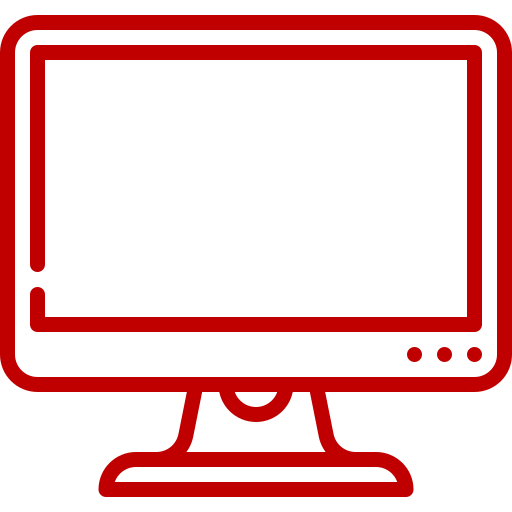
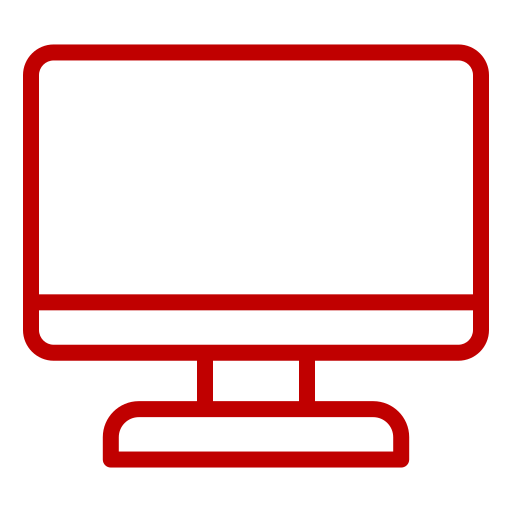
Add files via upload

Changed region(s): [[0.0, 0.0312, 1.0, 0.9688]]

diff --git a/index.html b/index.html
@@ -24,15 +24,14 @@
     </div>
 
     <div class="py-6 mt-3 text-center text-white relative max-w-7xl mx-auto px-4">
-      <!-- Logo -->
+
       <img src="img/logo MVCS.png" alt="Logo"
         class="hidden sm:block h-10 sm:h-12 absolute left-2 sm:left-4 top-[40%] transform -translate-y-1/2" />
 
-      <!-- Título -->
       <h1 class="text-xl sm:text-3xl md:text-4xl lg:text-5xl font-bold tracking-wide text-black">
         OFICINA DE MONITOREO
       </h1>
-      <!-- Subtítulo -->
+
       <div class="mt-2 inline-block bg-red-600 px-2 sm:px-4 py-1 transform -skew-x-12">
         <span class="inline-block skew-x-12 text-white font-semibold text-base sm:text-lg md:text-2xl lg:text-3xl">
           REPOSITORIO DE TABLEROS DE MONITOREO Y SEGUIMIENTO
@@ -50,7 +49,7 @@
         <div class="flip-card">
           <div class="flip-inner shadow-lg">
             <div class="flip-front shadow-lg text-center">
-              <img src="img/en-construccion.png" alt="" class="w-20 h-20 mb-3" />
+              <img src="img/en-construccion.png" alt="" class="w-20 h-21 mb-2" />
               <h3 class="font-bold text-2xl">Obras paralizadas</h3>
             </div>
             <div class="flip-back shadow-lg text-center p-4">
@@ -67,7 +66,7 @@
         <div class="flip-card">
           <div class="flip-inner shadow-lg">
             <div class="flip-front shadow-lg text-center">
-              <img src="img/dar-dinero.png" alt="" class="w-20 h-20 mb-3" />
+              <img src="img/dar-dinero.png" alt="" class="w-20 h-20 mb-2" />
               <h3 class="font-bold text-2xl">Transferencias</h3>
             </div>
             <div class="flip-back shadow-lg text-center p-4">
@@ -85,7 +84,7 @@
         <div class="flip-card">
           <div class="flip-inner shadow-lg">
             <div class="flip-front shadow-lg text-center">
-              <img src="img/monitor.png" alt="" class="w-20 h-20 mb-3" />
+              <img src="img/monitor.png" alt="" class="w-20 h-20 mb-2" />
               <h3 class="font-bold text-2xl">PRESET</h3>
             </div>
             <div class="flip-back shadow-lg text-center p-4">
@@ -97,16 +96,17 @@
         </div>
       </a>
 
-      <a href="https://app.powerbi.com/view?r=eyJrIjoiN2UzZDZiMTYtNjMyYS00ZmFhLTk0NTEtNDI5MTBjNTZhNzllIiwidCI6IjhhZmMxYzZhLThjOWYtNDA5My1iMDU1LWU0MTdiMjA5M2IwYyIsImMiOjR9"
-        target="_blank" class="block">
+      <a class="block disabled-link"
+        href="https://app.powerbi.com/view?r=eyJrIjoiZjU0MmUyNWYtNjgxYi00NThjLTgzMjEtOTMzNTcyM2Y1OGI3IiwidCI6IjhhZmMxYzZhLThjOWYtNDA5My1iMDU1LWU0MTdiMjA5M2IwYyIsImMiOjR9"
+        target="_blank">
         <div class="flip-card">
           <div class="flip-inner shadow-lg">
             <div class="flip-front shadow-lg text-center">
-              <img src="img/camion-cisterna (4).png" alt="" class="w-20 h-20 mb-3" />
-              <h3 class="font-bold text-2xl">EPS</h3>
+              <img src="img/eps.png" alt="" class="w-20 h-20 mb-2" />
+              <h3 class="font-bold text-2xl">Distribución Gratuita de agua</h3>
             </div>
             <div class="flip-back shadow-lg text-center p-4">
-              <h4 class="font-bold text-2xl mb-2">EPS</h4>
+              <h4 class="font-bold text-2xl mb-2">Distribución Gratuita de agua</h4>
               <p class="text-base">Avance físico y financiero de la distribución de agua en camión cisterna dirigido a
                 la población ubicada en zona urbana de pobreza y pobreza extrema.</p>
             </div>
@@ -114,12 +114,13 @@
         </div>
       </a>
 
-      <a href="https://app.powerbi.com/view?r=eyJrIjoiOWFkZGExYmEtYzZlZS00MjVhLTgzMTUtNDIzZDQ4OWQyMTQxIiwidCI6IjhhZmMxYzZhLThjOWYtNDA5My1iMDU1LWU0MTdiMjA5M2IwYyIsImMiOjR9"
-        target="_blank" class="block">
+      <a class="block disabled-link"
+        href="https://app.powerbi.com/view?r=eyJrIjoiOWFkZGExYmEtYzZlZS00MjVhLTgzMTUtNDIzZDQ4OWQyMTQxIiwidCI6IjhhZmMxYzZhLThjOWYtNDA5My1iMDU1LWU0MTdiMjA5M2IwYyIsImMiOjR9"
+        target="_blank">
         <div class="flip-card">
           <div class="flip-inner shadow-lg">
             <div class="flip-front shadow-lg text-center">
-              <img src="img/obrero.png" alt="" class="w-20 h-20 mb-3" />
+              <img src="img/obrero.png" alt="" class="w-20 h-20 mb-2" />
               <h3 class="font-bold text-2xl">Inversiones Directas</h3>
             </div>
             <div class="flip-back shadow-lg text-center p-4">
@@ -136,7 +137,7 @@
         <div class="flip-card">
           <div class="flip-inner shadow-lg">
             <div class="flip-front shadow-lg text-center">
-              <img src="img/reunion-de-la-junta.png" alt="" class="w-20 h-20 mb-3" />
+              <img src="img/mat.png" alt="" class="w-20 h-20 mb-2" />
               <h3 class="font-bold text-2xl">Mesas de asistencia Técnica</h3>
             </div>
             <div class="flip-back shadow-lg text-center p-4">
@@ -147,12 +148,45 @@
         </div>
       </a>
 
+      <a href="https://app.powerbi.com/view?r=eyJrIjoiMTZhNmFjOWUtZDkwOC00MjE1LWI1MzctODlkNGUyZjQxNWM4IiwidCI6IjhhZmMxYzZhLThjOWYtNDA5My1iMDU1LWU0MTdiMjA5M2IwYyIsImMiOjR9"
+        target="_blank" class="block">
+        <div class="flip-card">
+          <div class="flip-inner shadow-lg">
+            <div class="flip-front shadow-lg text-center">
+              <img src="img/priorizadas.png" alt="" class="w-20 h-20 mb-2" />
+              <h3 class="font-bold text-2xl">Obras priorizadas</h3>
+            </div>
+            <div class="flip-back shadow-lg text-center p-4">
+              <h4 class="font-bold text-2xl mb-2">Obras priorizadas</h4>
+              <p class="text-base">Las obras priorizadas están programadas para ser culminadas hasta el 28 de julio de 2026, con el fin de asegurar su entrega oportuna en beneficio de la población.</p>
+            </div>
+          </div>
+        </div>
+      </a>
+
+      <a href="https://app.powerbi.com/view?r=eyJrIjoiYzMwYTNkMTgtYjU2YS00YzAxLWJhZTktNmM2OTRhZDQ2M2U1IiwidCI6IjhhZmMxYzZhLThjOWYtNDA5My1iMDU1LWU0MTdiMjA5M2IwYyIsImMiOjR9"
+        target="_blank" class="block">
+        <div class="flip-card">
+          <div class="flip-inner shadow-lg">
+            <div class="flip-front shadow-lg text-center">
+              <img src="img/pared-de-ladrillo.png" alt="" class="w-20 h-20 mb-2" />
+              <h3 class="font-bold text-2xl">VRAEM</h3>
+            </div>
+            <div class="flip-back shadow-lg text-center p-4">
+              <h4 class="font-bold text-2xl mb-2">VRAEM</h4>
+              <p class="text-base">Proyectos priorizados en el VRAEM para fortalecer el desarrollo local y mejorar los
+                servicios y calidad de vida.</p>
+            </div>
+          </div>
+        </div>
+      </a>
+
       <a href="https://app.powerbi.com/view?r=eyJrIjoiNTZlNmU2ZDItYmE3My00OTQzLWE3ZTMtYWZjYjExZWIyOTMzIiwidCI6IjhhZmMxYzZhLThjOWYtNDA5My1iMDU1LWU0MTdiMjA5M2IwYyIsImMiOjR9"
         target="_blank" class="block">
         <div class="flip-card">
           <div class="flip-inner shadow-lg">
             <div class="flip-front shadow-lg text-center">
-              <img src="img/conferencia.png" alt="" class="w-20 h-20 mb-3" />
+              <img src="img/mat pres.png" alt="" class="w-20 h-20 mb-2" />
               <h3 class="font-bold text-2xl">MAT presupuestal</h3>
             </div>
             <div class="flip-back shadow-lg text-center p-4">
@@ -164,18 +198,104 @@
         </div>
       </a>
 
-      <a href="https://app.powerbi.com/view?r=eyJrIjoiYzMwYTNkMTgtYjU2YS00YzAxLWJhZTktNmM2OTRhZDQ2M2U1IiwidCI6IjhhZmMxYzZhLThjOWYtNDA5My1iMDU1LWU0MTdiMjA5M2IwYyIsImMiOjR9"
+      <a href="https://app.powerbi.com/view?r=eyJrIjoiNzViZjNmZTQtNDM1Yy00ZWMwLThjNDEtNmFiNmEyMjgyZTk2IiwidCI6IjhhZmMxYzZhLThjOWYtNDA5My1iMDU1LWU0MTdiMjA5M2IwYyIsImMiOjR9"
         target="_blank" class="block">
         <div class="flip-card">
           <div class="flip-inner shadow-lg">
             <div class="flip-front shadow-lg text-center">
-              <img src="img/pared-de-ladrillo.png" alt="" class="w-20 h-20 mb-3" />
-              <h3 class="font-bold text-2xl">VRAEM</h3>
+              <img src="img/vivienda.png" alt="" class="w-20 h-20 mb-2" />
+              <h3 class="font-bold text-2xl">PNVR, COFOPRI y bonos</h3>
             </div>
             <div class="flip-back shadow-lg text-center p-4">
-              <h4 class="font-bold text-2xl mb-2">VRAEM</h4>
-              <p class="text-base">Proyectos priorizados en el VRAEM para fortalecer el desarrollo local y mejorar los
-                servicios y calidad de vida.</p>
+              <h4 class="font-bold text-2xl mb-2">PNVR, COFOPRI y bonos</h4>
+              <p class="text-base">Presenta información sobre las principales acciones del Estado en materia de
+                vivienda, que abarcan la construcción de hogares rurales, la formalización de la propiedad urbana.</p>
+            </div>
+          </div>
+        </div>
+      </a>
+
+      <a href="https://app.powerbi.com/view?r=eyJrIjoiYzg0NDRkNGQtNWVkYi00NjE4LWIwYzktZmI0NDY4YjBhMTg4IiwidCI6IjhhZmMxYzZhLThjOWYtNDA5My1iMDU1LWU0MTdiMjA5M2IwYyIsImMiOjR9"
+        target="_blank" class="block">
+        <div class="flip-card">
+          <div class="flip-inner shadow-lg">
+            <div class="flip-front shadow-lg text-center">
+              <img src="img/informe.png" alt="" class="w-20 h-20 mb-2" />
+              <h3 class="font-bold text-2xl">Informe Situacional de Proyectos</h3>
+            </div>
+            <div class="flip-back shadow-lg text-center p-4">
+              <h4 class="font-bold text-2xl mb-2">Informe Situacional de Proyectos</h4>
+              <p class="text-base">Muestra información sobre el estado situacional de los proyectos, permitiendo
+                visualizar su avance físico y financiero, identificar brechas en la ejecución y facilitar el seguimiento
+                de las intervenciones a nivel nacional.</p>
+            </div>
+          </div>
+        </div>
+      </a>
+
+      <a href="https://geosunass.sunass.gob.pe/gisportal/apps/experiencebuilder/experience/?id=ab64fca93ebb400dbb3aeaf3b30d10c6&page=Inicio"
+        target="_blank" class="block">
+        <div class="flip-card en-construccion-card">
+          <div class="flip-inner shadow-lg">
+            <div class="flip-front text-center relative">
+              <span class="cinta-obra"><span>EN CONSTRUCCIÓN</span></span>
+              <img src="img/sunass.png" alt="" class="w-20 h-20 mb-2" />
+              <h3 class="font-bold text-2xl">SUNASS</h3>
+            </div>
+            <div class="flip-back text-center p-4">
+              <h4 class="font-bold text-2xl mb-2">SUNASS</h4>
+              <p class="text-base">Información relacionada con la supervisión y regulación de los servicios de agua
+                potable y saneamiento.</p>
+            </div>
+          </div>
+        </div>
+      </a>
+
+      <a href="https://app.powerbi.com/view?r=eyJrIjoiODViYjZmMDUtYjA5ZS00YjFmLThiMDgtZmY3ZWI1NmYxZmU3IiwidCI6IjhhZmMxYzZhLThjOWYtNDA5My1iMDU1LWU0MTdiMjA5M2IwYyIsImMiOjR9"
+        target="_blank" class="block">
+        <div class="flip-card">
+          <div class="flip-inner shadow-lg">
+            <div class="flip-front text-center relative">
+              <img src="img/economia circular activo.png" alt="" class="w-20 h-20 mb-2" />
+              <h3 class="font-bold text-2xl">Economía circular</h3>
+            </div>
+            <div class="flip-back text-center p-4">
+              <h4 class="font-bold text-2xl mb-2">Economía circular</h4>
+              <p class="text-base">Presenta información relacionada con las iniciativas de economía circular, mostrando
+                indicadores sobre la gestión sostenible de recursos y reutilización de materiales.</p>
+            </div>
+          </div>
+        </div>
+      </a>
+
+      <div class="flip-card en-construccion-card">
+        <div class="flip-inner shadow-lg">
+          <div class="flip-front text-center relative">
+            <span class="cinta-obra"><span>EN CONSTRUCCIÓN</span></span>
+            <img src="img/analisis.png" alt="" class="w-20 h-20 mb-2" />
+            <h3 class="font-bold text-2xl">Análisis de Proyectos por Gestión</h3>
+          </div>
+          <div class="flip-back text-center p-4">
+            <h4 class="font-bold text-2xl mb-2">Análisis de Proyectos por Gestión</h4>
+            <p class="text-base">Presenta el análisis comparativo de los proyectos según diferentes gestiones
+              presidenciales.</p>
+          </div>
+        </div>
+      </div>
+
+      <a href="https://app.powerbi.com/view?r=eyJrIjoiODQ5NzhmMjgtNzY1Yy00MTk3LTgyMDEtNDllZWNhZTIzYzY3IiwidCI6IjhhZmMxYzZhLThjOWYtNDA5My1iMDU1LWU0MTdiMjA5M2IwYyIsImMiOjR9"
+        target="_blank" class="block">
+        <div class="flip-card en-construccion-card">
+          <div class="flip-inner shadow-lg">
+            <div class="flip-front text-center relative">
+              <span class="cinta-obra"><span>EN CONSTRUCCIÓN</span></span>
+              <img src="img/dialogo.png" alt="" class="w-20 h-20 mb-2" />
+              <h3 class="font-bold text-2xl">Compromisos de la Oficina de Dialogo</h3>
+            </div>
+            <div class="flip-back text-center p-4">
+              <h4 class="font-bold text-2xl mb-2">Compromisos de la Oficina de Dialogo</h4>
+              <p class="text-base">Muestra el seguimiento y cumplimiento de los compromisos asumidos por las
+                autoridades.</p>
             </div>
           </div>
         </div>

diff --git a/css/estilos.css b/css/estilos.css
@@ -57,14 +57,29 @@ body {
 }
 
 /* Colores de la cabecera */
+.barra-azul {
+  background-color: #2672B0;
+}
 
-.barra-azul { background-color: #2672B0; }
-.barra-verde { background-color: #8DB629; }
-.barra-amarilla { background-color: #F2AB13; }
-.barra-rosada { background-color: #AF227E; }
-.barra-celeste { background-color: #5FB6D4; }
-.barra-roja { background-color: #D80F1F; }
+.barra-verde {
+  background-color: #8DB629;
+}
 
+.barra-amarilla {
+  background-color: #F2AB13;
+}
+
+.barra-rosada {
+  background-color: #AF227E;
+}
+
+.barra-celeste {
+  background-color: #5FB6D4;
+}
+
+.barra-roja {
+  background-color: #D80F1F;
+}
 
 .background-container {
   position: fixed;
@@ -77,5 +92,85 @@ body {
   opacity: 1;
 }
 
+/* ================================ TARJETAS EN CONSTRUCCIÓN (MVCS) ================================ */
+.cinta-obra {
+  position: absolute;
+  top: 10px;
+  left: 50%;
+  transform: translateX(-50%);
+  width: 100%;
+  max-width: 340px;
+  height: 38px;
+  line-height: 38px;
+  text-align: center;
+  color: #fff;
+  font-weight: 800;
+  text-transform: uppercase;
+  letter-spacing: .08em;
+  z-index: 5;
+  background: repeating-linear-gradient(45deg, #111 0 14px, #facc15 14px 28px);
+  overflow: hidden;
+}
 
+/* Difuminado más visible */
+.cinta-obra span {
+  position: relative;
+  z-index: 2;
+  padding: 4px 14px;
+  border-radius: 8px;
+  background: rgba(0, 0, 0, 0.45);
+  backdrop-filter: blur(8px) brightness(1.2);
+  box-shadow: 0 0 8px rgba(0, 0, 0, 0.5), 0 0 10px rgba(255, 255, 255, 0.3);
+  overflow: hidden;
+}
+
+/* Efecto de brillo animado */
+.cinta-obra span::after {
+  content: "";
+  position: absolute;
+  top: 0;
+  left: -150%;
+  width: 60%;
+  height: 100%;
+  background: linear-gradient(120deg, rgba(255, 255, 255, 0) 0%, rgba(255, 255, 255, 0.4) 50%, rgba(255, 255, 255, 0) 100%);
+  transform: skewX(-20deg);
+  animation: brillo 4s infinite;
+}
+
+@keyframes brillo {
+  0% {
+    left: -150%;
+  }
+
+  60% {
+    left: 150%;
+  }
+
+  100% {
+    left: 150%;
+  }
+}
+
+
+/* === Tarjetas en construcción (fondo gris metálico) === */
+.en-construccion-card .flip-front {
+  background-image: linear-gradient(to bottom, white, #c3c3c3);
+  color: #1f2937;
+}
+
+/* Reverso con gris más oscuro */
+.en-construccion-card .flip-back {
+  transform: rotateX(180deg);
+  background-color: #c3c3c3;
+  color:#1f2937;
+  font-weight: 500;
+  text-align: center;
+}
+
+
+/* Cursor restringido SOLO al pasar por la card en construcción */
+.en-construccion-card:hover,
+.en-construccion-card:hover * {
+  cursor: not-allowed !important;
+}
 